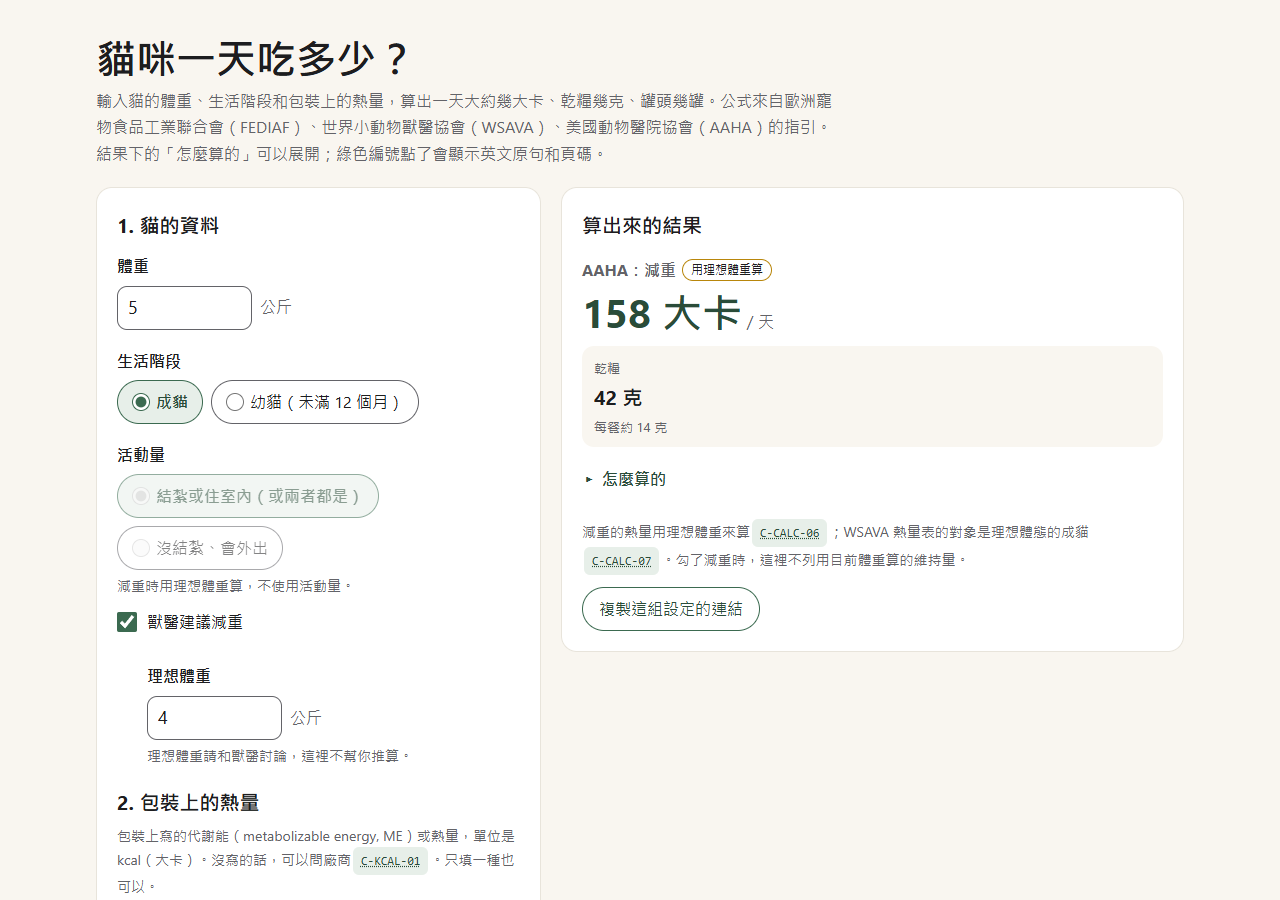
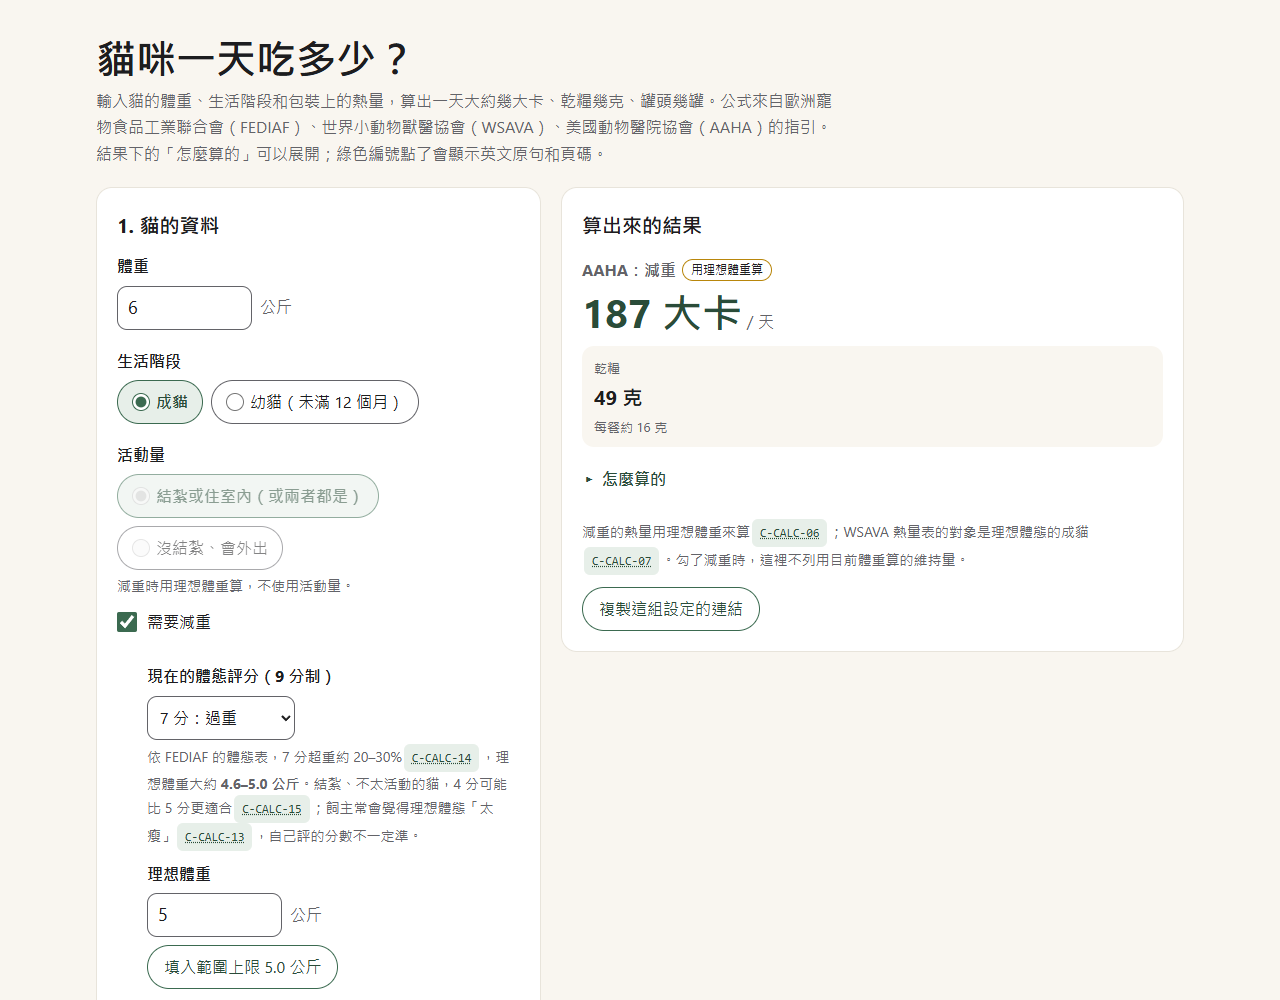
功能(index): 理想體重依 FEDIAF 體態表給出大致範圍；拿掉非機構名稱的「獸醫」
負責人審核後的要求；獨立審查第 3 輪（實質 3）後改用 FEDIAF Table VII-1 的超重比例，補 C-CALC-12～15。

diff --git a/index.html b/index.html
@@ -107,11 +107,14 @@ footer.fc-foot{margin-top:28px;color:var(--text-muted);font-size:14px;border-top
         </div>
         <p class="hint" id="actHint">大多數家貓結紮，活動量也少<button type="button" class="cid" data-c="C-CALC-10">C-CALC-10</button>。</p>
         <p class="hint" id="actLossHint" hidden>減重時用理想體重算，不使用活動量。</p>
-        <label class="check" style="margin-top:12px"><input type="checkbox" id="lose" name="lose"><span>獸醫建議減重</span></label>
+        <label class="check" style="margin-top:12px"><input type="checkbox" id="lose" name="lose"><span>需要減重</span></label>
         <div class="sub" id="loseBox" hidden>
-          <label class="lbl" for="target">理想體重</label>
-          <div class="row"><input id="target" name="target" type="number" inputmode="decimal" min="0.5" max="15" step="0.1"><span class="unit">公斤</span></div>
-          <p class="hint">理想體重請和獸醫討論，這裡不幫你推算。</p>
+          <label class="lbl" for="bcs">現在的體態評分（9 分制）</label>
+          <select id="bcs" name="bcs"><option value="">不知道</option><option value="6">6 分：略胖</option><option value="7">7 分：過重</option><option value="8">8 分：肥胖</option><option value="9">9 分：嚴重肥胖</option></select>
+          <p class="hint" id="idealHint" hidden></p>
+          <label class="lbl" for="target" style="margin-top:10px">理想體重</label>
+          <div class="row"><input id="target" name="target" type="number" inputmode="decimal" min="0.5" max="15" step="0.1"><span class="unit">公斤</span>
+            <button type="button" class="copy" id="useIdeal" hidden style="margin-top:0"></button></div>
         </div>
       </fieldset>
 
@@ -365,6 +368,30 @@ footer.fc-foot{margin-top:28px;color:var(--text-muted);font-size:14px;border-top
    "figure": true,
    "zh": "這些係數只是估算熱量的一般原則；不太活動或住室內的可能需要更少；熱量要看體重和體態評分來調整",
    "quote": "The above life stage factors are general guidelines for estimating caloric intake. Sedentary and/or indoor pets may require less caloric intake than indicated above. Adjustment of caloric intake should be done by monitoring BW and BCS."
+  },
+  "C-CALC-12": {
+   "src": "AAHA-NUTRITION-2021",
+   "page": 3,
+   "zh": "9 分制體態評分超過 5 分後，每多一分大約等於超重 10%（每增加一分，體脂大約多 5%）",
+   "quote": "Every incremental increase in BCS is equivalent to a 5% increase in BF% while each BCS … 5/9 is equivalent to being 10% overweight"
+  },
+  "C-CALC-13": {
+   "src": "WSAVA-NUTRITION-2011",
+   "page": 3,
+   "zh": "大多數寵物的目標是 9 分制的 4–5 分；有些飼主會覺得這樣「太瘦」",
+   "quote": "The goal for most pets is a BCS of 4 to 5 of 9. (This may appear ‘too thin’ to some pet owners so client education is important.)"
+  },
+  "C-CALC-14": {
+   "src": "FEDIAF-NUTRITION-GUIDELINES-2025",
+   "page": 45,
+   "zh": "FEDIAF 的 9 分制體態表：6 分（略胖）約超重 10–15%、7 分（過重）20–30%、8 分（肥胖）30–40%、9 分（嚴重肥胖）超過 40%",
+   "quote": "6. Slightly overweight … +10 - 15% 7. Overweight … +20 - 30% 8. Obese … +30 - 40% 9. Grossly Obese … +>40%"
+  },
+  "C-CALC-15": {
+   "src": "FEDIAF-NUTRITION-GUIDELINES-2025",
+   "page": 45,
+   "zh": "數據顯示，結紮、不太活動的貓，最適合的可能是 4 分，而不是較活躍的未結紮貓最適合的 5 分",
+   "quote": "Data suggest that for neutered inactive cats a BCS of 4/9 may be optimal rather than the 5/9 score which is optimal for intact more active cats"
   }
  }
 }
@@ -452,7 +479,21 @@ const Calc = (() => {
     };
   }
 
-  return { energy, per100g, grams, cans, portion, KITTEN_BANDS };
+  /**
+   * 依體態評分估計理想體重的大致範圍（公斤，取到小數第一位）。
+   * FEDIAF 體態表〔C-CALC-14〕：6 分超重 10–15%、7 分 20–30%、8 分 30–40%、9 分超過 40%（沒有上限）。
+   * 理想體重 = 現在體重 ÷ (1 + 超重比例)；比例大的那一端得到範圍下限。AAHA「每多一分約超重 10%」〔C-CALC-12〕方向一致。
+   */
+  const OVER = { 6: [0.10, 0.15], 7: [0.20, 0.30], 8: [0.30, 0.40], 9: [0.40, null] };
+  function idealWeight(weightKg, bcs) {
+    const w = Number(weightKg), b = Number(bcs);
+    if (!(w >= 0.5 && w <= 15) || !OVER[b]) return null;
+    const [lo, hi] = OVER[b];
+    const r1 = (x) => Math.round(x * 10) / 10;
+    return { over: OVER[b], high: r1(w / (1 + lo)), low: hi == null ? null : r1(w / (1 + hi)) };
+  }
+
+  return { energy, per100g, grams, cans, portion, idealWeight, KITTEN_BANDS };
 })();
 if (typeof module !== "undefined") module.exports = Calc;
 </script>
@@ -495,7 +536,7 @@ if (typeof module !== "undefined") module.exports = Calc;
     age: "請填幼貓的月齡。",
     adult: "12 個月以上，請改選「成貓」。",
     target: "理想體重要小於目前體重，而且至少 0.5 公斤。",
-    targetEmpty: "請填獸醫建議的理想體重。",
+    targetEmpty: "請填理想體重；選了現在的體態評分，可以用估計的範圍。",
   };
   // 單位檢查用的寬鬆範圍（不是營養建議，只用來發現單位選錯）
   const SANE = { dry: [150, 800], wet: [20, 300], can: [10, 800] };
@@ -505,7 +546,7 @@ if (typeof module !== "undefined") module.exports = Calc;
     const get = (k) => (f.get(k) ?? "").toString().trim();
     return {
       w: get("w"), stage: get("stage") || "adult", act: get("act") || "indoor",
-      lose: $("lose").checked, target: get("target"), age: get("age"),
+      lose: $("lose").checked, bcs: get("bcs"), target: get("target"), age: get("age"),
       dk: get("dk"), du: get("du"), wk: get("wk"), wu: get("wu"), cg: get("cg"),
       mix: get("mix"), treat: $("treat").checked, meals: get("meals"),
     };
@@ -527,6 +568,16 @@ if (typeof module !== "undefined") module.exports = Calc;
     $("adultBox").hidden = s.stage !== "adult";
     $("kittenBox").hidden = s.stage !== "kitten";
     $("loseBox").hidden = !s.lose;
+    const iw = Calc.idealWeight(s.w, s.bcs);
+    $("idealHint").hidden = !iw;
+    $("useIdeal").hidden = !iw || !(iw.high < Number(s.w));
+    if (iw) {
+      const pct = iw.over[1] == null ? `超過 ${iw.over[0] * 100}%` : `約 ${iw.over[0] * 100}–${iw.over[1] * 100}%`;
+      const rng = iw.low == null ? `${fmt(iw.high, 1)} 公斤以下（9 分沒有上限，實際可能更低）` : `${fmt(iw.low, 1)}–${fmt(iw.high, 1)} 公斤`;
+      $("idealHint").innerHTML = `依 FEDIAF 的體態表，${s.bcs} 分超重${pct}${chip("C-CALC-14")}，理想體重大約 <b>${rng}</b>。結紮、不太活動的貓，4 分可能比 5 分更適合${chip("C-CALC-15")}；飼主常會覺得理想體態「太瘦」${chip("C-CALC-13")}，自己評的分數不一定準。`;
+      $("useIdeal").textContent = `填入範圍上限 ${fmt(iw.high, 1)} 公斤`;
+      $("useIdeal").dataset.v = iw.high;
+    }
     $("cgBox").hidden = s.wu === "can";
     const out = [];
     const inRange = (v, [a, b]) => v == null || (v >= a && v <= b);
@@ -583,7 +634,7 @@ if (typeof module !== "undefined") module.exports = Calc;
         <details${location.hash === "#how" ? " open" : ""}><summary>怎麼算的</summary><div class="how"><ol>${hows.map((h) => `<li>${h}</li>`).join("")}</ol>${claims.map(claimHTML).join("")}</div></details></div>`);
     }
     if (lossRow) out.push(`<p class="hint">減重的熱量用理想體重來算${chip("C-CALC-06")}；WSAVA 熱量表的對象是理想體態的成貓${chip("C-CALC-07")}。勾了減重時，這裡不列用目前體重算的維持量。</p>`);
-    else if (rows.length > 1) out.push(`<p class="hint">各指引的公式不同（FEDIAF${chip(rows[0].key === "fediaf-active" ? "C-CALC-02" : "C-CALC-01")}、WSAVA${chip("C-KCAL-09")}），這裡並列。獸醫和飼主要經常看體態，再調整餵的量${chip("C-BCS-06")}。</p>`);
+    else if (rows.length > 1) out.push(`<p class="hint">各指引的公式不同（FEDIAF${chip(rows[0].key === "fediaf-active" ? "C-CALC-02" : "C-CALC-01")}、WSAVA${chip("C-KCAL-09")}），這裡並列。要經常看體態，再調整餵的量${chip("C-BCS-06")}。</p>`);
     $("out").innerHTML = out.join("");
     const first = rows[0];
     $("barText").textContent = first ? `每天 ${range(first.low, first.high)} 大卡（${ROWS[first.key].name.split("：")[0]}）` : "填好資料就會算出結果";
@@ -591,11 +642,12 @@ if (typeof module !== "undefined") module.exports = Calc;
   }
 
   // ---- 網址參數：同一組設定可以分享；讀進來時只接受允許的值 ----
-  const KEYS = ["w", "stage", "act", "lose", "target", "age", "dk", "du", "wk", "wu", "cg", "mix", "treat", "meals"];
+  const KEYS = ["w", "stage", "act", "lose", "bcs", "target", "age", "dk", "du", "wk", "wu", "cg", "mix", "treat", "meals"];
   function writeURL(s) {
     const q = new URLSearchParams();
     for (const k of KEYS) {
       const v = s[k];
+      if (k === "bcs" && !s.lose) continue;
       if (v === true) q.set(k, "1");
       else if (v !== false && v !== "") q.set(k, v);
     }
@@ -621,7 +673,7 @@ if (typeof module !== "undefined") module.exports = Calc;
       ["每隻貓需要的熱量差很多；沒有一個公式能算出所有貓的需求，公式只能預測一群貓的平均。", ["C-KCAL-02", "C-KCAL-07"]],
       ["熱量表只是參考；有的貓要多吃、有的要少吃，才能維持理想體態。", ["C-KCAL-05"]],
       ["AAHA 的生命階段係數只是估算熱量的一般原則，不太活動或住室內的可能需要更少。", ["C-CALC-11"]],
-      ["獸醫和飼主要經常看體態，再調整餵的量。", ["C-BCS-06"]],
+      ["要經常看體態，再調整餵的量。", ["C-BCS-06"]],
       ["不管是讓貓自由取食還是分餐，都用秤追蹤一天總共吃了多少。", ["C-FEED-08"]],
       ["零食的熱量要算進每天的份量，而且不超過 10%。", ["C-TRT-01", "C-TRT-03"]],
       ["每天的份量分成多次小餐。", ["C-FEED-01"]],
@@ -640,6 +692,8 @@ if (typeof module !== "undefined") module.exports = Calc;
     $("dlg").showModal();
   });
   $("dlg").addEventListener("click", (ev) => { if (ev.target === $("dlg")) $("dlg").close(); });   // 點對話框外面也能關
+
+  $("useIdeal").addEventListener("click", () => { $("target").value = $("useIdeal").dataset.v; render(); $("target").focus(); });
 
   $("copy").addEventListener("click", async () => {
     try { await navigator.clipboard.writeText(location.href); $("copy").textContent = "已複製連結"; }

diff --git a/runs/review_03.md b/runs/review_03.md
@@ -1,0 +1,17 @@
+# 審查 03：理想體重估計與拿掉「獸醫」字樣
+
+我用 `git diff HEAD -- index.html tests/test_calc.mjs` 看了這次的修改，並執行了 `node tests/test_calc.mjs`（10 通過、0 失敗）和 `python scripts/check_claims.py`（24 條，FAIL 0；C-CALC-12、C-CALC-13 都是 OK）。我也對照了 HW10 raw\ 的原文：AAHA-NUTRITION-2021 p.3（BCS 與超重 10% 那句）、p.4（Table 2 是圖片，抽不出文字）、p.6（飼主評分要由獸醫團隊確認）；WSAVA-NUTRITION-2011 p.3（目標 4–5 分、有些貓超過 9/9）；FEDIAF-NUTRITION-GUIDELINES-2025 p.45（Table VII-1，貓的 9 分制）。換算部分：「超重 10%」是拿理想體重當基準，所以「目前體重 = 理想體重 × (1 + 0.1n)」，理想體重 = 體重 ÷ (1 + 0.1n)。程式用的是除法，不是「體重 × (1 − 0.1n)」，這樣是對的；n 線性累加也合乎原句「each BCS >5/9」的讀法。FEDIAF 表上 6～8 分是 +10–15%、+20–30%、+30–40%，數字對得上。原文的「$」可能是「>」或「≥」，但 5 分本身就是理想，兩種讀法算出的結果一樣，不影響算法。至於 BCS ≤5、空值、體重 0、網址 `bcs=5` 或 `bcs=abc`：`idealWeight` 會回傳 null，下拉選單也會擋掉不允許的值，這些都處理得對。
+
+- [R0]（實質）AGENTS.md 規則 3 和 SPEC.md 互相矛盾：SPEC.md v1.2（第 26、40、58、113 行）依負責人要求，已經改成「依研究給出理想體重的大致範圍」並加上「填入」按鈕。但 AGENTS.md 規則 3 還寫著「不用體態分數推目標體重；目標體重只能由使用者填」，所以這次的修改違反 AGENTS.md。之後的 agent 照 AGENTS.md 執行，可能會把這個功能撤掉。建議由使用者確認後更新 AGENTS.md 規則 3，例如改成「理想體重只給依研究的大致範圍，不替使用者決定」，並寫進 DEVLOG.md。
+- [R1]（實質）index.html 減重區塊（`#loseBox`）：拿掉「理想體重請和獸醫討論」之後，畫面上就沒有任何但書提醒飼主自己打的體態分數可能不準。現在是飼主自己評分，工具直接拿這個分數推出理想體重和減重熱量，但 AAHA p.6 寫的是 "Owner assessment of these parameters should be verified by a member of the veterinary team"。建議把 AAHA p.6 這句新增成一條 claim，在評分選單下面加一句「自己評的體態分數不一定準，最好請獸醫院確認」並附上編號。不必寫回「獸醫建議減重」，但這個但書要留著。
+- [R2]（實質）`idealWeight` 遇到 9 分時：9 分在原文是沒有上限的一端。WSAVA p.3 說 "some extremely obese patients exceed the BCS of 9/9"，FEDIAF p.45 也把 9 分寫成 +>40%。現在 9 分仍照 +40% 算，給出一個看起來封閉的範圍，對很胖的貓會高估理想體重。建議 9 分時在提示加一句「9 分的貓可能超重不只 40%，理想體重可能比這個範圍更低」，並引用 WSAVA p.3 那句；或者 9 分只顯示「最多約 X 公斤」。
+- [R3]（輕微）`#idealHint` 文字：提示開頭寫「依研究估計」，但 4 分那一端不是研究給的數字，是工具自己外推的。「這是估計，4 分那一端是延伸」放在句子最後，讀者容易先看到範圍再忽略後面的說明。建議改成「大約估計」，把「4 分那一端是本工具自己延伸的」移到範圍的數字旁邊。比較好的做法是改引 FEDIAF p.45 的註腳 "for neutered inactive cats a BCS of 4/9 may be optimal"，以及表上 4 分是 −10–15%，這樣 4 分那一端就有出處，也可以順便說明「結紮、不太動的貓，4 分可能比較適合」。
+- [R4]（輕微）`<select id="bcs">` 的選項文字：「6 分：略胖／7 分：過重／8 分：肥胖／9 分：嚴重肥胖」和 FEDIAF p.45 Table VII-1（Slightly overweight／Overweight／Obese／Grossly obese）一致，出處其實存在，但畫面和 claims 裡都沒有標。建議新增一條 FEDIAF p.45 的 claim，在選單旁邊加編號。也可以考慮附上各分數的外觀描述，或連到可以對照評分的地方，飼主才知道怎麼評分。
+- [R5]（輕微）`#useIdeal`「填入」按鈕：按鈕只寫「填入 X 公斤」，沒有說這是範圍裡 5 分（較重）的那一端。另外，填入之後如果再改體重或評分，`target` 不會跟著更新，會留著舊的值。建議按鈕文字改成「填入 5 分那一端 X 公斤」；如果 `target` 是用按鈕填的，就在 w 或 bcs 改變時一起更新，或至少提示使用者重新填入。
+- [R6]（輕微）`idealWeight` 的四捨五入邊界：體重 0.5 公斤、評分 6 分時，high = round(0.4545) = 0.5，等於目前體重。按「填入」之後，`energy` 的檢查 `t < w` 不成立，會跳出錯誤「理想體重要小於目前體重」。同一個例子的 low 是 0.4，也低於理想體重的下限 0.5。成貓幾乎不會這麼輕，但這是按鈕自己製造出的錯誤。建議把 high 改成無條件捨去到小數第一位，或者把 low 和 high 夾在 [0.5, w − 0.1] 之間。
+- [R7]（輕微）`render()` 中 `iw` 為 null 的情況：已經選了評分，但體重沒填或超過 15 公斤時，提示和按鈕會直接消失，沒有說明原因。建議這時顯示一句「先填目前體重（0.5–15 公斤）才能估計」。
+- [R8]（輕微）C-BCS-06：畫面上的句子改成「要經常看體態，再調整餵的量」，但點開編號後，`zh` 欄位仍是「獸醫和飼主要……」，原句也是 "veterinarians and clients"。這樣不算錯，但改寫後的意思比原文窄（原文說的是獸醫和飼主兩方），前後也不一致。建議改成「飼主和獸醫院都要經常看體態……」，或把 `zh` 欄位一起調整。
+- [R9]（輕微）`writeURL`：沒有勾「需要減重」時，`bcs` 仍然會寫進網址，分享出去的連結會帶著用不到的參數。不影響功能。建議在 `s.lose` 為 false 時略過 `bcs` 和 `target`。
+- [R10]（輕微）tests/test_calc.mjs：測試沒有涵蓋 9 分、體重 15 和 15.1 的邊界，也沒有 R6 那種 high 等於體重的情況。建議補上這幾個斷言。
+
+總結：實質 3、輕微 8

diff --git a/SPEC.md b/SPEC.md
@@ -1,6 +1,6 @@
 # 規格書：貓咪每日餵食量計算器
 
-版本：v1.1（2026-11-20）。改版紀錄在文末。
+版本：v1.2（2026-11-20）。改版紀錄在文末。
 
 ## 1. 要解決的問題
 
@@ -23,7 +23,7 @@
 
 | 不做 | 理由 |
 |---|---|
-| 不用體態分數自動推算目標體重 | 目標體重要由獸醫評估；減重模式只接受使用者自己填的目標體重 |
+| 不直接替使用者決定目標體重 | 工具只依研究給出理想體重的大致範圍（見第 5 節），要用哪個數字由使用者自己填 |
 | 不從保證分析值（蛋白、脂肪…）估算熱量 | 熱量一律照包裝上的數字填，沒寫就問廠商（依 WSAVA 的建議） |
 | 不做懷孕、哺乳 | 需要小貓數、哺乳週數，輸入複雜，使用者少 |
 | 不寫「應該吃多少」這類指示句 | 公式只能預測一群貓的平均（FEDIAF），結果是起點，要看體態調整 |
@@ -37,7 +37,7 @@
 | 體重 | 數字（公斤），0.5–15 | 超出範圍顯示提示，不計算 |
 | 生活階段 | 二選一：成貓／幼貓 | |
 | 成貓：活動量 | 二選一：結紮或住室內／沒結紮、一般活動量 | 預設「結紮或住室內」；旁邊引 AAFP：大多數家貓結紮、活動量也少 |
-| 成貓：減重 | 勾選＋理想體重（公斤） | 理想體重要小於目前體重；旁邊寫「理想體重請和獸醫討論」；勾了沒填時提示 |
+| 成貓：減重 | 勾選＋現在的體態評分（6–9 分，可選「不知道」）＋理想體重（公斤） | 選了評分就顯示估計的理想體重範圍和「填入」按鈕；理想體重要小於目前體重；勾了沒填會提示 |
 | 幼貓：月齡 | 數字，0–24 | 12 個月以上提示改用成貓 |
 | 乾糧熱量 | 數字＋單位（每公斤／每 100 克） | 可留空（只餵罐頭）；換算成每 100 克不在 150–800 時提示單位可能選錯、不換算 |
 | 罐頭熱量 | 數字＋單位（每罐／每公斤／每 100 克）；單位不是每罐時另填一罐幾克 | 可留空（只餵乾糧）；每 100 克不在 30–300、每罐不在 10–500 時提示單位可能選錯 |
@@ -55,6 +55,7 @@
 | 成貓・沒結紮、一般活動量（原表 Active cats） | 100 × mw | FEDIAF 2025 Table VII-9 p.57〔C-CALC-02〕〔C-KCAL-08〕 |
 | 成貓（並列） | 100 × W^0.67 與 130 × W^0.4 之間（取小到大）；體重不在 1.0–7.0 公斤時註明是表外推算 | WSAVA 2020 p.1〔C-KCAL-09〕〔C-CALC-07〕〔C-CALC-08〕〔C-CALC-09〕 |
 | 成貓・減重 | 70 × 理想體重^0.75 × 0.8 | AAHA 2021 Box 1 p.8〔C-CALC-04〕〔C-CALC-05〕〔C-CALC-11〕、p.9〔C-CALC-06〕 |
+| 理想體重估計 | 理想體重 = 現在體重 ÷ (1 + 超重比例)；超重比例照 FEDIAF 體態表：6 分 10–15%、7 分 20–30%、8 分 30–40%、9 分 40% 以上（9 分只給上限） | FEDIAF 2025 Table VII-1 p.45〔C-CALC-14〕；結紮不活躍的貓 4 分可能最適合〔C-CALC-15〕；AAHA 每多一分約超重 10%〔C-CALC-12〕方向一致；飼主常覺得理想體態太瘦〔C-CALC-13〕 |
 | 幼貓 | 維持需求乘以倍數。原表沒有指定基準，本工具取 100 × mw（寫在「怎麼算的」，標明是假設）：未滿 4 個月 2.0–2.5、4 到未滿 9 個月 1.75–2.0、9 到未滿 12 個月 1.5 | FEDIAF 2025 Table VII-10 p.57〔C-CALC-03〕〔C-KCAL-08〕 |
 | 零食上限 | 每日熱量 × 10% | AAFP 2018 p.2〔C-TRT-01〕；WSAVA 2011 p.3〔C-TRT-03〕 |
 | 換成克數 | 熱量 ÷ 每 100 克熱量 × 100（每公斤 ÷ 10 = 每 100 克） | 算術 |
@@ -109,3 +110,4 @@
 
 - v1.0（2026-11-20）：和負責人、貓健康站開發端討論後定稿。範圍：成貓、幼貓、減重；不做標籤換算、懷孕、哺乳。
 - v1.1（2026-11-20）：依獨立審查第 1 輪修改（runs/review_01.md）：活動量用語對齊原文、減重時只列減重量、熱量單位檢查、編號可點、WSAVA 表外註明、補 6 條主張。
+- v1.2（2026-11-20）：負責人要求理想體重依研究給出大致範圍：加體態評分選單與估計範圍（依 FEDIAF 體態表，C-CALC-12～15；獨立審查第 3 輪後由「往下延伸一分」改成直接用表上的比例）；拿掉非機構名稱的「獸醫」。

diff --git a/DEVLOG.md b/DEVLOG.md
@@ -82,3 +82,17 @@
 - 截圖（screenshots/）：
   - 電腦版：預設、乾濕混餵加零食、算式展開、減重、單位選錯的提示。
   - 手機版：375px 的幼貓情境。
+
+## 第 6 輪：負責人審核後的修改
+
+- **拿掉「獸醫」**：負責人要求不要一直出現「獸醫」。機構名稱以外的地方都拿掉了，勾選框改成「需要減重」。
+- **理想體重要給研究依據的大致範圍**：這是負責人的要求，改掉原本「工具不幫你推算」的設計。
+  - 第一版的做法：依 AAHA 2021 p.3「超過 5 分後，每多一分約超重 10%」，加上 WSAVA「目標 4–5 分」，4 分那一端用同一比例往下延伸一分。
+  - 獨立審查第 3 輪（runs/review_03.md）：實質 3、輕微 8。審查指出 FEDIAF 2025 p.45 的體態表直接列出各分數的超重比例，第一版算出的數字和這張表一致；也指出 AGENTS.md 的規則和新功能互相矛盾，以及 9 分沒有上限。
+  - 改成直接用 FEDIAF 的表算範圍：6 分 10–15%、7 分 20–30%、8 分 30–40%、9 分 40% 以上（只給上限，並註明實際可能更低）。這樣範圍的兩端都有出處。另外補兩句提醒：「結紮、不太活動的貓，4 分可能比 5 分更適合」（C-CALC-15），以及飼主常覺得理想體態「太瘦」（C-CALC-13）。
+  - 審查引用的 AAHA「飼主評分應由醫療團隊確認」，在逐頁文字裡找不到，所以沒有採用。
+  - 「填入」按鈕註明填的是範圍上限；沒勾減重時，網址不帶 bcs 參數；AGENTS.md 規則 3 跟著改。
+- **驗證**：
+  - 測試 10 項通過，新增的理想體重測試包含 6～9 分和 15 公斤。
+  - 出處 26 條：23 條由程式比對到原文、3 條人工對照，0 FAIL。
+  - 重拍第 4 張截圖。

diff --git a/AGENTS.md b/AGENTS.md
@@ -10,7 +10,7 @@
 
 1. **每個數字都要有出處。** 公式和係數只能來自 `index.html` 裡 `<script id="claims">` 列出的主張；新增公式前先補主張（中文＋英文原句＋頁碼），再跑 `python scripts/check_claims.py`，0 FAIL 才能用。
 2. **公式和貓健康站既有的計算程式一致。** 改計算核心（`<script id="calc">`）後跑 `node tests/test_calc.mjs`；驗收 1–4 的數字不能變。
-3. **結果一律顯示範圍或並列多種算法，不寫「應該吃多少」。** 不用體態分數推目標體重；目標體重只能由使用者填。
+3. **結果一律顯示範圍或並列多種算法，不寫「應該吃多少」。** 理想體重只依 FEDIAF 體態表給出大致範圍（負責人 2026-11-20 決定），要用哪個數字由使用者自己填，工具不替使用者決定。
 4. **不做：** 從保證分析值估算熱量、懷孕與哺乳、診斷、品牌、價格。
 5. **文字：** 繁體中文；不用紅色與警示圖示；不寫「立刻」「馬上」；不用「毛孩」「主子」；專有名詞第一次出現寫「中文（英文）」。
 6. **顏色只用 SPEC.md 第 7 節的變數名稱**；焦點外框不可拿掉；手機 360px 不能橫向捲動。
